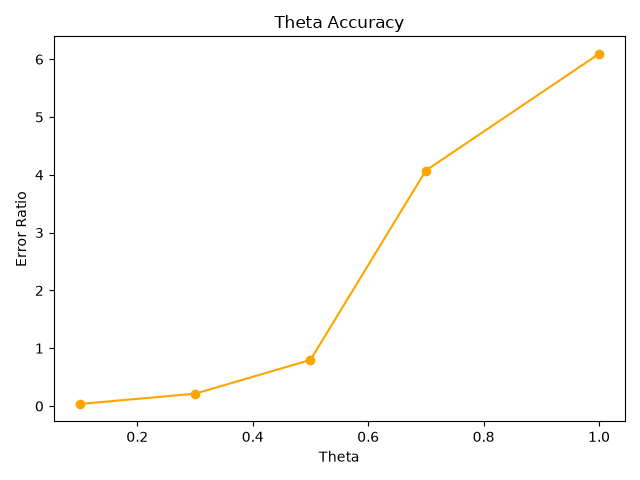
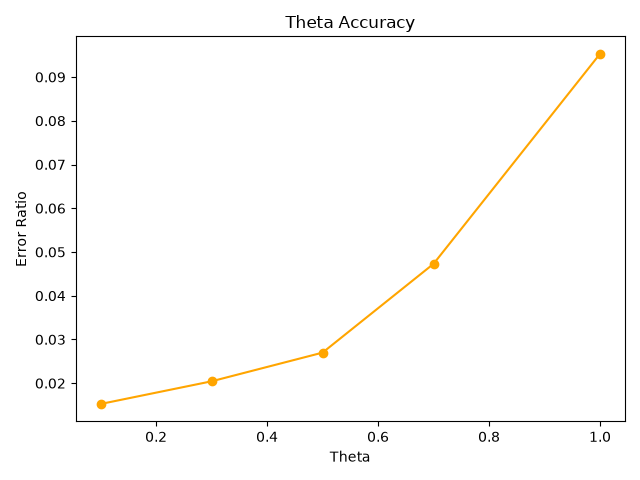
perf: update theta benchmark to N=500 in theta_accuracy.py and .png

diff --git a/benchmarks/theta_accuracy.py b/benchmarks/theta_accuracy.py
@@ -12,7 +12,7 @@ def total_force_magnitude(bodies):
     return [body.acceleration.magnitude() for body in bodies]
 
 
-def run_theta_test(theta_values, n_bodies=50):
+def run_theta_test(theta_values, n_bodies=500):
     bodies_ref = generate_random_bodies(n_bodies)
 
     # Ground truth: NumPy exact forces
